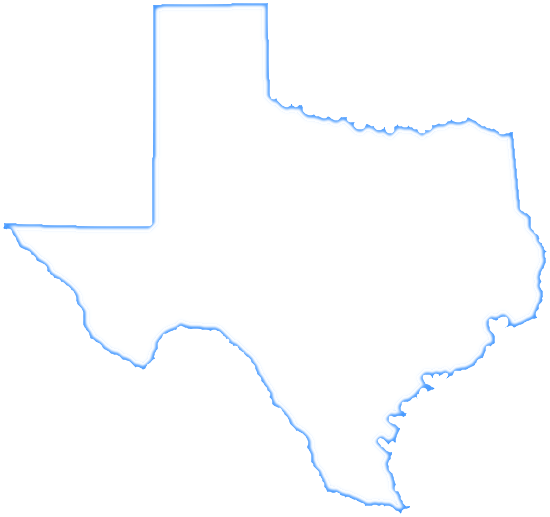
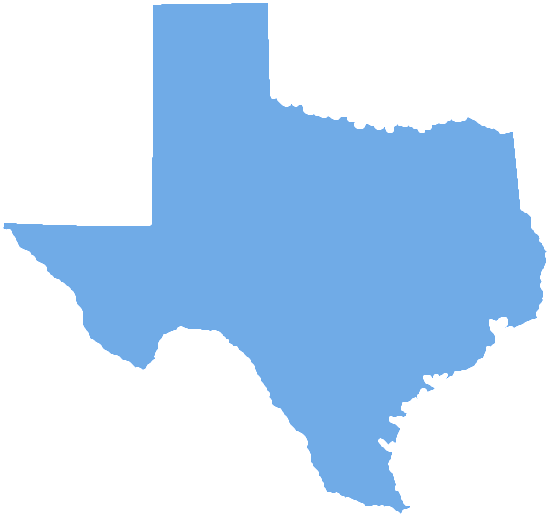
testing alternate blue 112,171,231 instead of 2587ff

diff --git a/index.html b/index.html
@@ -65,13 +65,13 @@
     </div>
 
     <div class="content" id="content">
-        <div style="background-color:#2587ff; text-align: center;">
+        <div style="background-color:rgb(112,171,231); text-align: center;">
             <img id="city-logo" src="imgs/citylogo.png" style="width:33vw;">
         </div>
         <div class="container">
             <div class="jumbotron">
                 <div class="row" id="disco-texas">
-                    <div class="col-xs-4 col-xs-offset-4 col-md-2 col-md-offset-0"><img class="img-responsive" src="imgs/texas.png" alt=""></div>
+                    <div class="col-xs-4 col-xs-offset-4 col-md-2 col-md-offset-0"><img class="img-responsive" src="imgs/exp/texas.png" alt=""></div>
                     <div class="col-xs-12 col-md-10">
                         <div class="row">
                             <div class="col-xs-12 col-sm-8 col-sm-offset-0 txt-wrapper"><h2>Disco Texas | 2587</h2></div>

diff --git a/css/index.css b/css/index.css
@@ -1,7 +1,8 @@
 /*
 gold: #D4AF37
 blue: #2587ff
-orange: 255,130,4;
+alt-blue: 112, 171, 231
+orange: 255,130,4
 */
 
 body, html {
